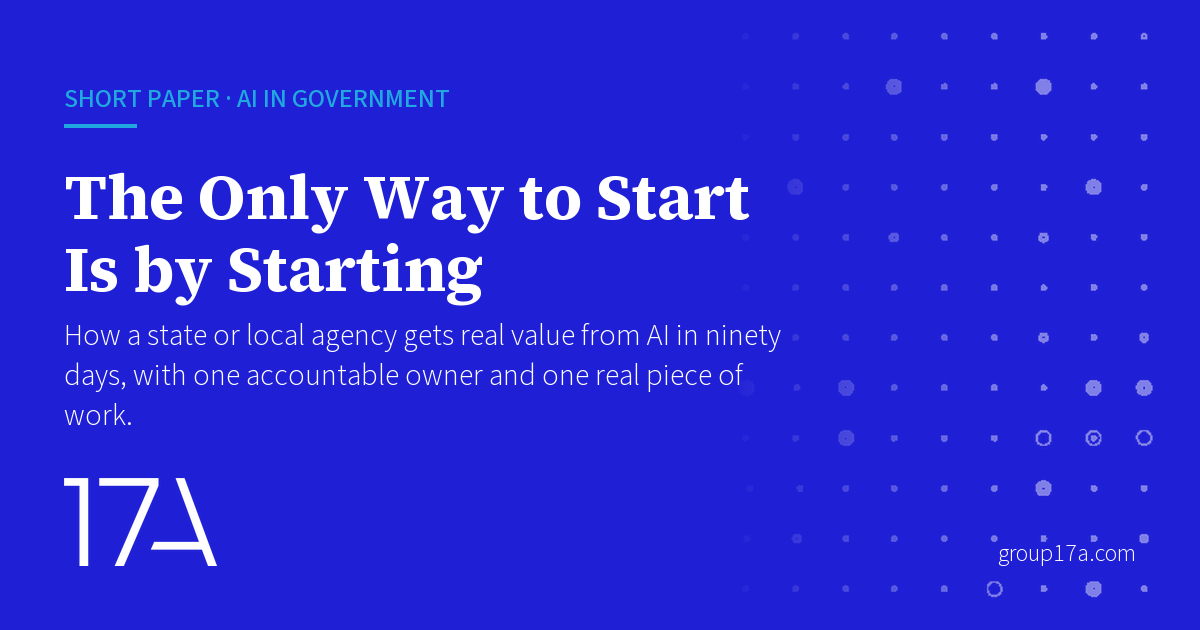
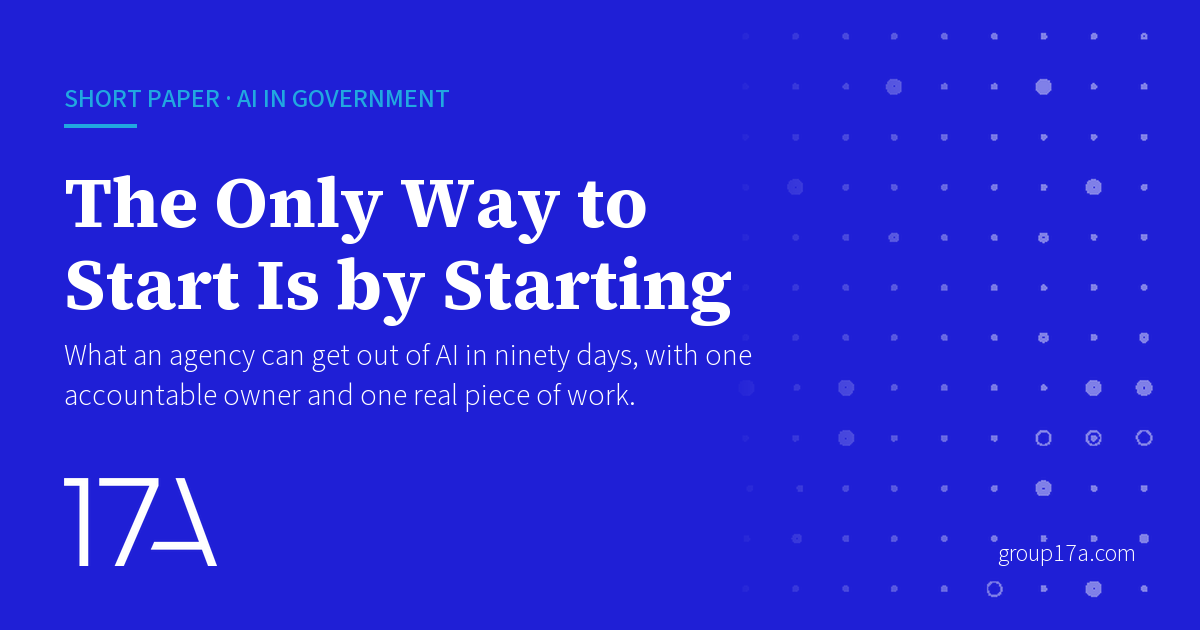
Profile README: plainer, drier copy; card subtitle without marketing

Changed region(s): [[0.0308, 0.2714, 0.6475, 0.6937]]

diff --git a/profile/README.md b/profile/README.md
@@ -1,6 +1,6 @@
 # 17A
 
-We are a consulting firm that works with state and local governments: city halls, county IT shops, state agencies, and the nonprofits that work alongside them. The work is health, economic mobility, public safety, shared services, and data and technology. Most of it is confidential. This is where the parts that can be public live: the papers that came out of the work, the models behind them, and the tools we build for public servants.
+We work with state and local governments: city halls, county IT shops, state agencies, and the nonprofits that work alongside them. Health, economic mobility, public safety, shared services, and whatever the data problem of the week turns out to be. Most of that work is confidential, which makes for a quiet GitHub. This page is the part we are allowed to show you.
 
 ## Start here
 
@@ -9,43 +9,43 @@ We are a consulting firm that works with state and local governments: city halls
     <td width="33%" valign="top">
       <a href="https://group17a.github.io/reducing-violence-whitepaper/"><img src="https://raw.githubusercontent.com/group17a/.github/main/profile/assets/reducing-violence-whitepaper.png" alt="Reducing Violent Crime Without New Budget, New Staff, or More Arrests" width="100%"></a>
       <br><b><a href="https://group17a.github.io/reducing-violence-whitepaper/">Reducing Violent Crime Without New Budget, New Staff, or More Arrests</a></b><br>
-      A guide for city leaders on environmental interventions and cross-department coordination, with Dallas's 2024 to 2025 implementation as the case study. Nine cities of concentration data, and why adaptive targeting beats static targeting.
+      For city leaders who have been told the only answers are more money, more officers, or more arrests. Dallas's 2024 to 2025 implementation is the case study. Nine cities of incident data explain why the map keeps moving out from under a static strategy.
       <br><sub><a href="https://group17a.github.io/reducing-violence-whitepaper/Reducing_Violent_Crime_17A.pdf">PDF</a> · <a href="https://github.com/group17a/reducing-violence-whitepaper">source</a></sub>
     </td>
     <td width="33%" valign="top">
       <a href="https://gizmowarehouse.org/gizmo/medicaid-work-requirements"><img src="https://raw.githubusercontent.com/group17a/.github/main/profile/assets/medicaid-work-requirements.png" alt="Who Loses Medicaid in 2027" width="100%"></a>
       <br><b><a href="https://gizmowarehouse.org/gizmo/medicaid-work-requirements">Who Loses Medicaid in 2027</a></b><br>
-      A nationwide, bottom-up model of the new federal work requirement: who is at risk, where they live, and whether each state can verify work before the deadline. Built for state Medicaid directors with the operational pre-work still ahead of them.
+      Starting in 2027, the federal work requirement will end coverage for millions of people, most of whom still qualify. Which ones, where they live, and whether their state can verify work before the deadline. A map, a brief for every state, and the arithmetic underneath.
       <br><sub><a href="https://gizmowarehouse.org/gizmo/medicaid-work-requirements">live map and state briefs</a> · <a href="https://github.com/eichenbaumj/gizmowarehouse.org/tree/main/gizmos/medicaid-work-requirements">source and data</a></sub>
     </td>
     <td width="33%" valign="top">
       <a href="https://gizmowarehouse.org/gizmo/only-way-to-start-is-by-starting"><img src="https://raw.githubusercontent.com/group17a/.github/main/profile/assets/only-way-to-start-is-by-starting.png" alt="The Only Way to Start Is by Starting" width="100%"></a>
       <br><b><a href="https://gizmowarehouse.org/gizmo/only-way-to-start-is-by-starting">The Only Way to Start Is by Starting</a></b><br>
-      How a state or local agency gets real value from AI in ninety days: one accountable owner, a handful of paid licenses, and one well-chosen piece of real work. A short paper, not a strategy.
+      What a state or local agency can get out of AI in ninety days: one accountable owner, a handful of paid licenses, and one real piece of work that somebody is already dreading. No strategy deck required.
       <br><sub><a href="https://gizmowarehouse.org/gizmo/only-way-to-start-is-by-starting">read it</a></sub>
     </td>
   </tr>
 </table>
 
-## How we build
+## How we work
 
-- **Plain language for skeptical readers.** The audience is a city council, a state CIO, or a federal reviewer. They get conclusions, not methods.
-- **Every number traces to a source.** If it cannot, the page says so.
-- **Code decides; models assist.** Where a tool reaches a conclusion, plain code computes it over typed data. Models do research and drafting, and nothing inside an input can change the outcome.
-- **The methodology is public and matches the code.** When a rule changes, the document changes in the same commit.
-- **Built with AI, owned by people.** Claude Code does most of the typing. We are accountable for what ships.
+- **The reader is a council member at 9 pm.** They get the conclusion on page one and the method in the appendix. Nothing that needs a glossary.
+- **Every number has a receipt.** If we cannot trace a figure back to its source, the page says so instead of rounding it off.
+- **The code makes the call. The model does the reading.** When a tool reaches a conclusion, plain code computes it from typed data. Models search and draft. Nothing pasted into an input can change the outcome, and we keep a test suite that tries.
+- **The methodology and the code change in the same commit.** When they disagree, one of them is wrong, and we fix it that day.
+- **Claude Code does most of the typing.** We describe the whole thing in plain language and ask for all of it. What comes back is better than we asked for, not what we asked for at all, or something that looks right and isn't. Telling those apart is the job.
 
-## More from 17A's partners
+## More from our partners' workshops
 
 | | |
 |---|---|
-| [High Floor, Low Ceiling](https://gizmowarehouse.org/gizmo/public-private-compensation-comparison) | Public pay holds its own at the bottom of the labor market and falls far behind at the top. The public-sector pay gap by skill, by field, by level of government, and over time. |
-| [Pricing the Fear of Data Centers](https://gizmowarehouse.org/gizmo/data-center-restriction-cost) | What a town gives up when it says no, a national map of restrictions and conditions, and the terms to demand if the answer is yes. |
-| [The Price of Insuring Yourself](https://gizmowarehouse.org/gizmo/self-insurance-cost) | The audited statements of 135 New York governments, and what self-insurance does to the size and swing of their bills. |
-| [NYC Property Tax: Who Pays, Who Doesn't](https://gizmowarehouse.org/gizmo/nyc-property-tax-map) | A parcel-level map of effective rates, and why two identical brownstones pay different bills. |
+| [High Floor, Low Ceiling](https://gizmowarehouse.org/gizmo/public-private-compensation-comparison) | Public pay holds its own at the bottom of the labor market and falls far behind at the top, which is exactly where you were hoping to hire. By skill, by field, by level of government, and over time. |
+| [Pricing the Fear of Data Centers](https://gizmowarehouse.org/gizmo/data-center-restriction-cost) | What a town gives up when it says no to a data center (tax revenue, mostly; the jobs were never coming), a national map of who said no, and the terms to demand if the answer is yes. |
+| [The Price of Insuring Yourself](https://gizmowarehouse.org/gizmo/self-insurance-cost) | We read the audited statements of 135 New York governments so you would not have to. The ones that insure themselves have bills that swing nearly twice as much from year to year. |
+| [NYC Property Tax: Who Pays, Who Doesn't](https://gizmowarehouse.org/gizmo/nyc-property-tax-map) | A parcel-level map of effective rates, and the long answer to why two identical brownstones across the street from each other pay very different bills. |
 
 ## Where the work lives
 
-Most of what we ship sits in private client repositories. The public repositories are here, and some of our partners keep their own workshops: Joe Eichenbaum's is at [gizmowarehouse.org](https://gizmowarehouse.org). A repository here that says it is in field test is still being built, and its README says what that means.
+Most of what we ship sits in private client repositories, where it will stay. The public repositories are here. Some of our partners keep their own workshops: Joe Eichenbaum's is at [gizmowarehouse.org](https://gizmowarehouse.org), where the music theory and the Talmud also live. A repository here that says it is in field test is still being built, and its README will tell you how much to trust it.
 
-If you work in or around government and something here would help, write to [letsgo@group17a.com](mailto:letsgo@group17a.com). Better government is worth the effort.
+If you work in or around government and something here would help, write to [letsgo@group17a.com](mailto:letsgo@group17a.com). Better government is worth the effort, and it is more fun with company.
